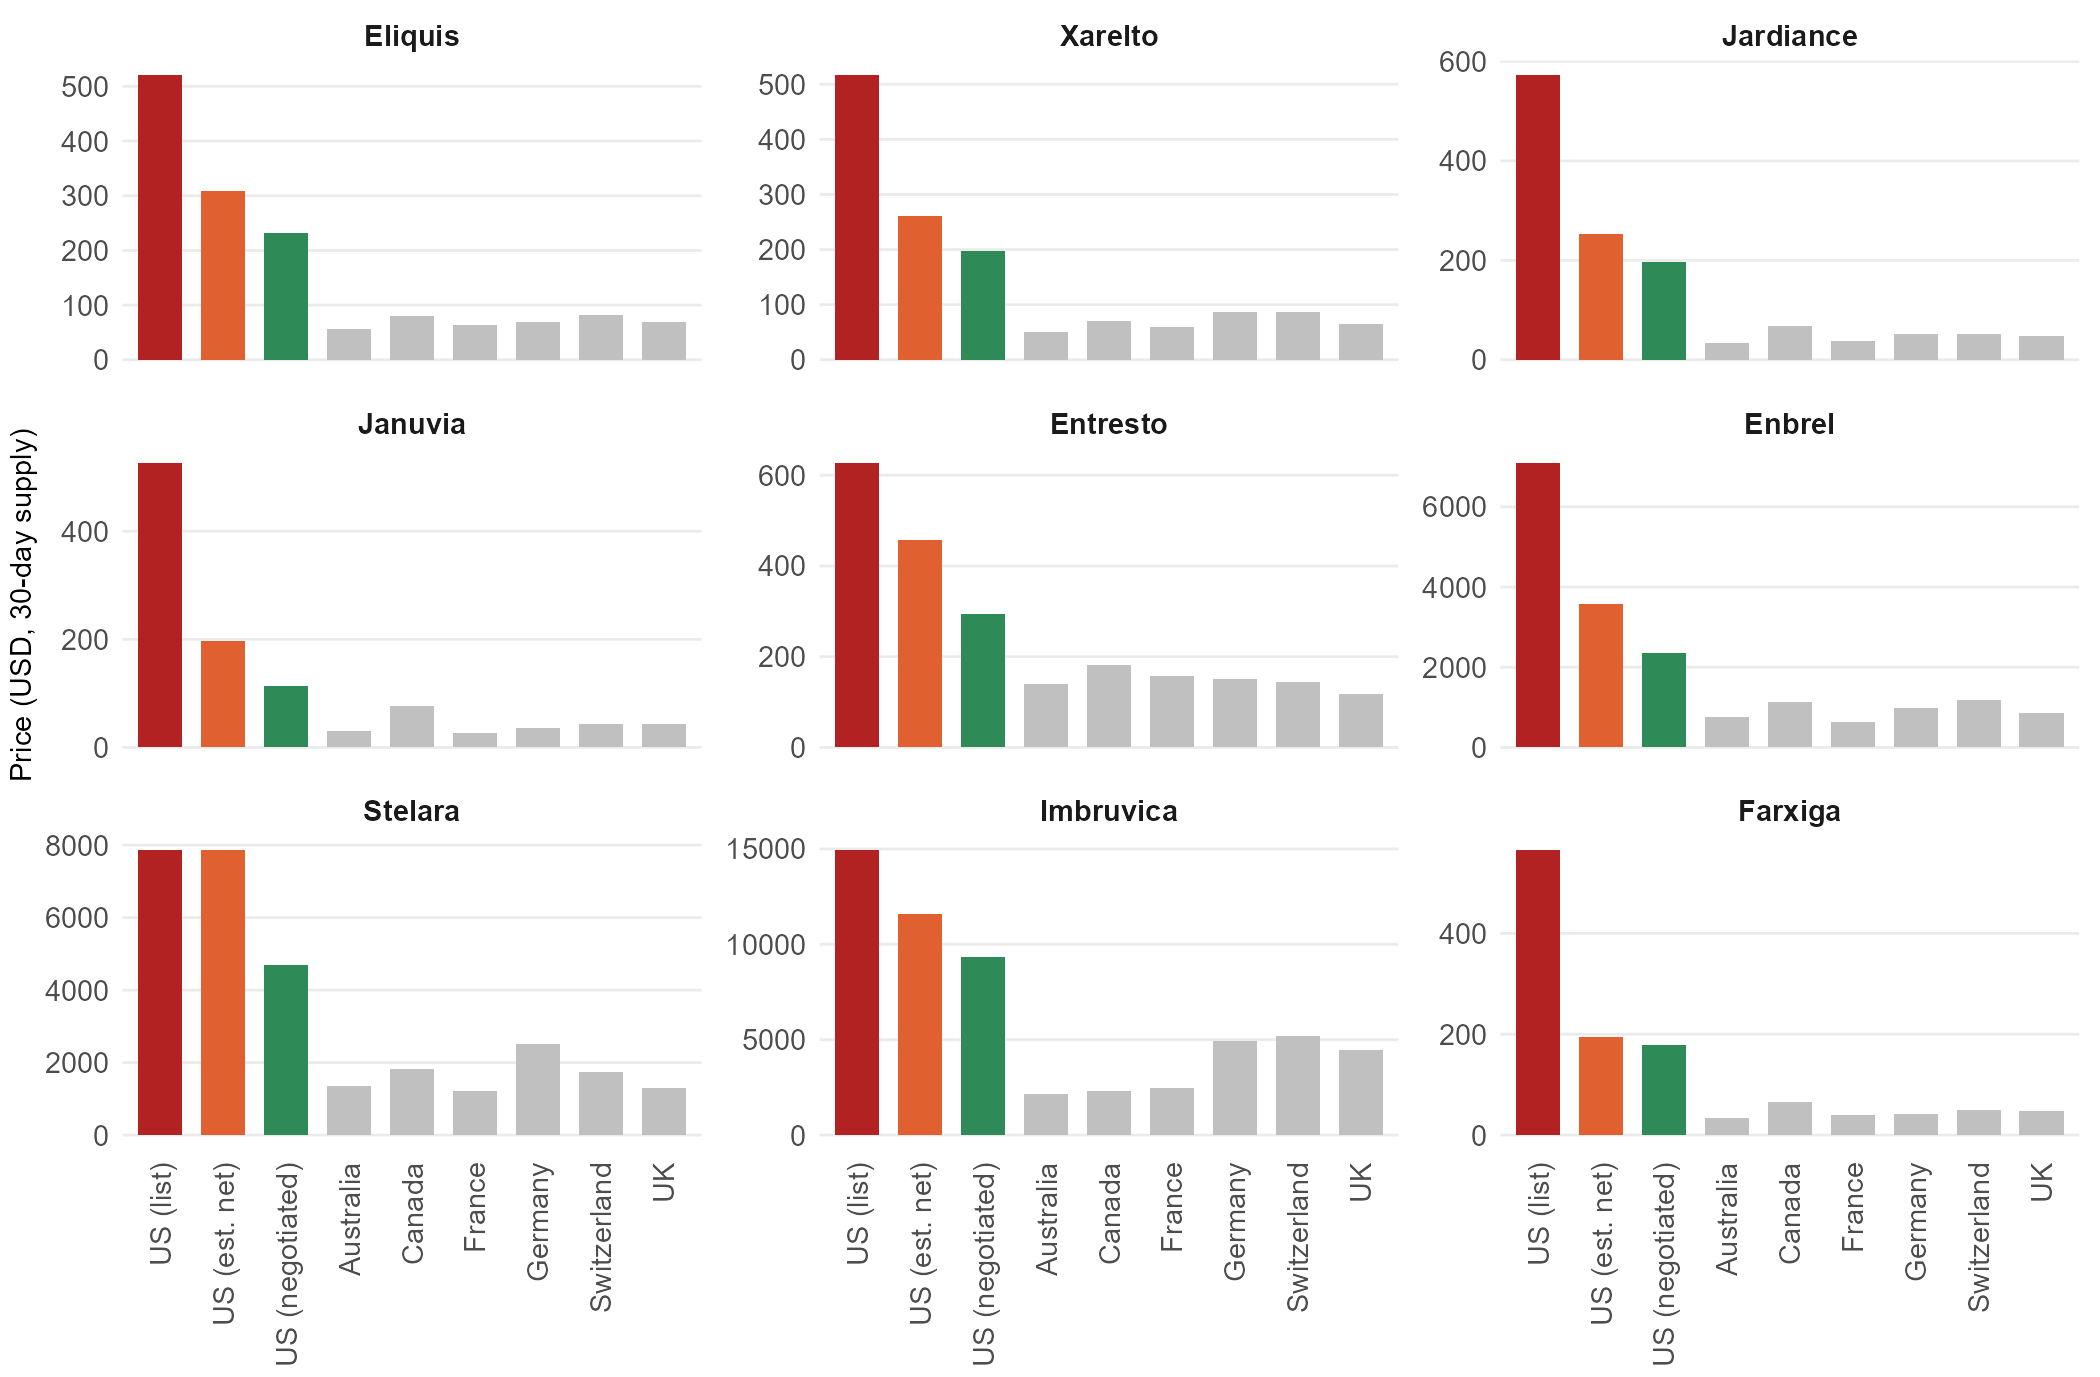
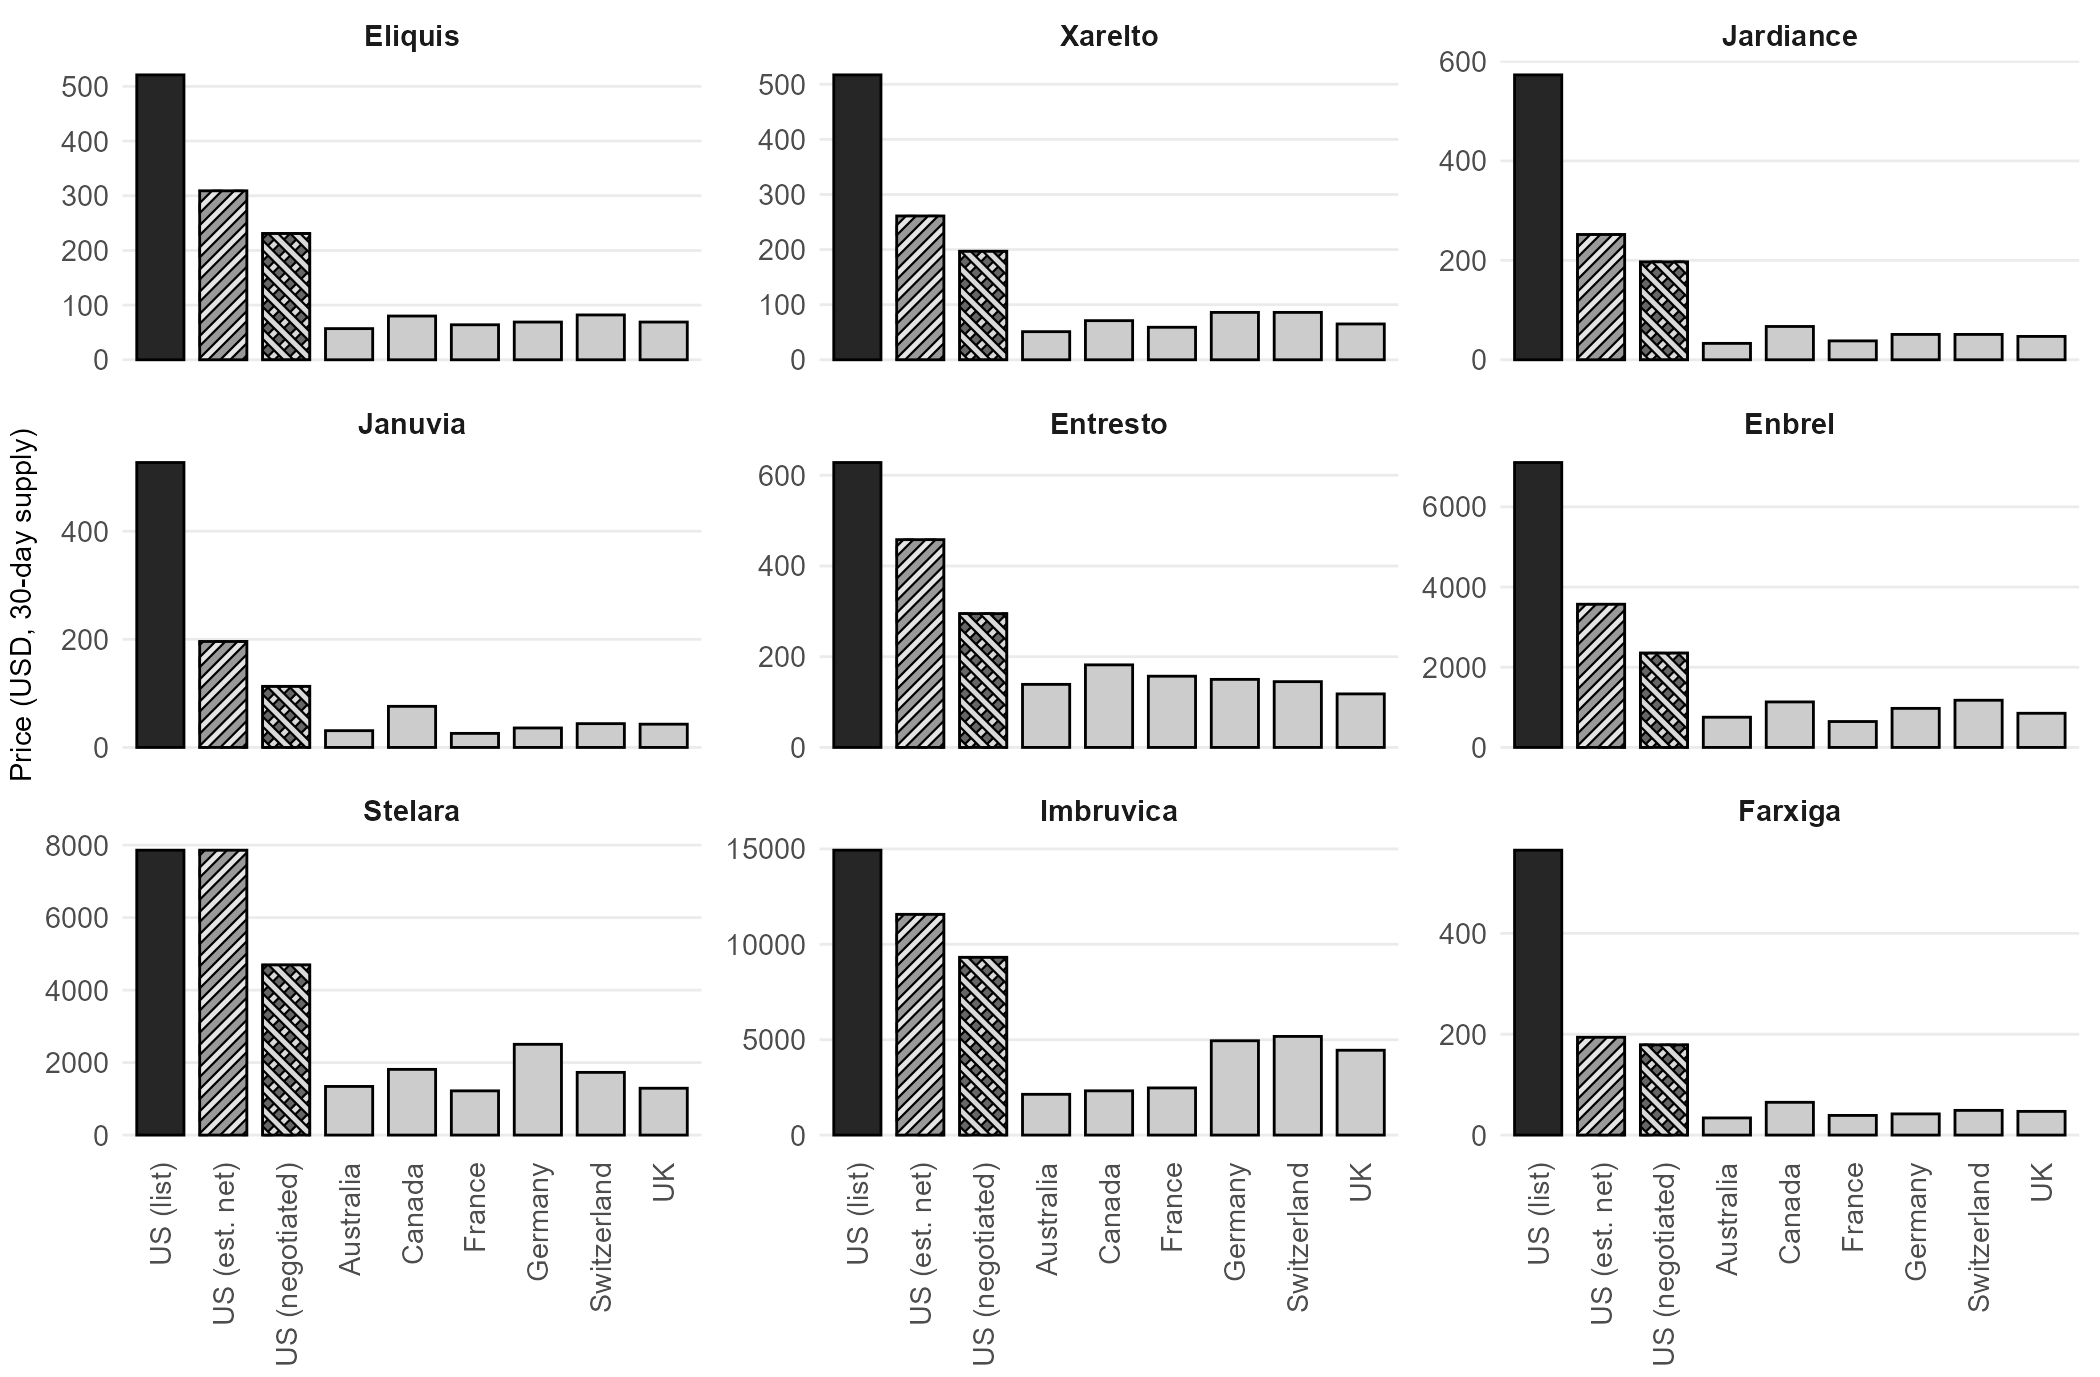
Add bundling FAQ; refresh figure PNGs

diff --git a/docs/faq.html b/docs/faq.html
@@ -50,6 +50,17 @@
 </details>
 
 <details>
+  <summary><span class="service-name">Hospital care is often paid in bundles, not per service. Can prices still be transparent?</span></summary>
+  <div>
+    <div class="notes">
+      <p>Yes. Bundled payment and price transparency are independent design choices. Bundling, including the diagnosis-related group (DRG) system used by Medicare for inpatient hospital stays, was developed as a cost-control tool. It pays a fixed amount per episode of care rather than per item, transferring efficiency risk to the provider and removing the incentive to over-test and over-treat. It has nothing to do with whether prices are visible.</p>
+      <p>Several developed countries publish DRG payment schedules. A patient in Germany, France, Japan, or Australia can look up what their hospital is paid for, say, an uncomplicated knee replacement before being admitted. The bundle itself is the priced unit, and that priced unit is published. The same approach works under this proposal: each bundled episode appears in the lookup system as a single price, just as each individual fee-for-service item appears as a single price. Whether the contracted unit is a CPT code, a DRG, a bundle, or a formula, the rule is the same: if the contract sets the price, the database posts the price.</p>
+      <p>The only situation that genuinely complicates transparency is open-ended pricing, where the contract specifies that the provider will be paid whatever the provider bills, with no preset schedule. The proposal rules this out. Every contract with the Bloc must specify, in advance, the price of every covered service or episode.</p>
+    </div>
+  </div>
+</details>
+
+<details>
   <summary><span class="service-name">Who decides which drugs the Bloc covers?</span></summary>
   <div>
     <div class="notes">
